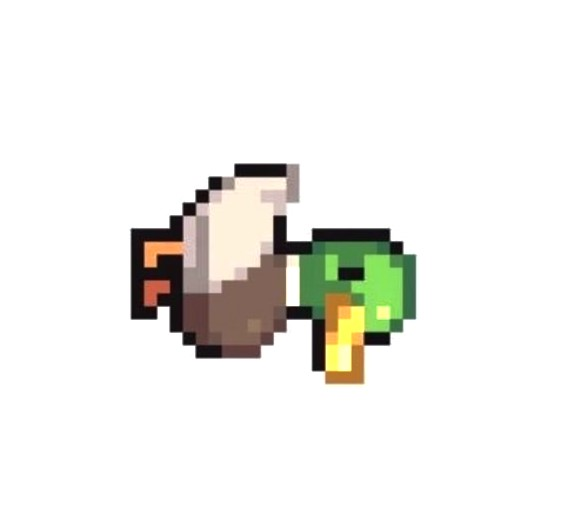
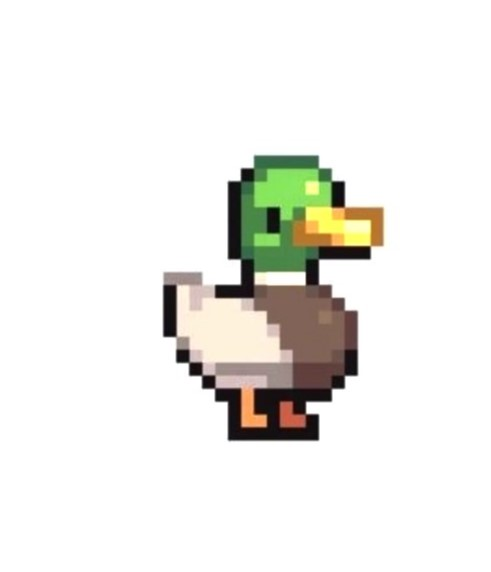
update 3/4

Changed region(s): [[0.2138, 0.2707, 0.7943, 0.782]]

diff --git a/game.cpp b/game.cpp
@@ -307,7 +307,7 @@ void game::renderBestScore()
 void game::renderMessage()
 {
 	LTexture image;
-	image.Load("anh_amthanh/message.png", 1);
+	image.Load("anh_amthanh/duck-ready.png", 1);
 	 image.Render((SCREEN_WIDTH - image.getWidth()) / 2, 180);
 	image.free();
 }
@@ -368,15 +368,15 @@ void game::renderPauseTab()
 void game::lightTheme()
 {
 	LTexture image;
-	image.Load("anh_amthanh/shiba.png", 0.8);
-	image.Render(325, 315);
+	image.Load("anh_amthanh/duck-01.png", 0.8);
+	image.Render(330, 310);
 	image.free();
 }
 
 void game::darkTheme()
 {
 	LTexture image;
-	image.Load("anh_amthanh/shiba-dark.png", 0.8);
+	image.Load("anh_amthanh/Duck-02.png", 0.8);
 	image.Render(325, 315);
 	image.free();
 }
@@ -415,17 +415,17 @@ void game::renderMedal()
 
 	if (score > 20 && score <= 50)
 	{
-		image.Load("anh_amthanh/silver.png", scaleNumberS);
+		image.Load("anh_amthanh/silver-medal-demo.png", scaleNumberS);
 	}
 	else if (score > 50)
 	{
-		image.Load("anh_amthanh/gold.png", scaleNumberS);
+		image.Load("anh_amthanh/gold-medal-demo.png", scaleNumberS);
 	}
 	else
 	{
-		image.Load("anh_amthanh/honor.png", scaleNumberS);
+		image.Load("anh_amthanh/bronze-medal-demo.png", scaleNumberS);
 	}
-	image.Render(SCREEN_WIDTH/2 - 100, 275);
+	image.Render((SCREEN_WIDTH/2 - 100)-14, 265);
 
 	image.free();
 }

diff --git a/character.cpp b/character.cpp
@@ -4,8 +4,8 @@
 
 bool doge::init(bool isDark)
 {
-    string shiba_path = "anh_amthanh/shiba.png";
-    if (isDark) shiba_path = "anh_amthanh/shiba-dark.png";
+    string shiba_path = "anh_amthanh/duck-01.png";
+    if (isDark) shiba_path = "anh_amthanh/Duck-02.png";
     if (saved_path == shiba_path)
     {
         posDoge.getPos(150, SCREEN_HEIGHT / 2 - 10);

diff --git a/music.cpp b/music.cpp
@@ -6,7 +6,7 @@
 bool sound::init()
 {
     string breath_path = "anh_amthanh/sfx_breath.wav";
-    string hit_path = "anh_amthanh/game-over-2-sound-effect-230463.wav";
+    string hit_path = "anh_amthanh/duck-sound.wav";
     string sound_path = "anh_amthanh/sound.png";
 
     bool success = true;

diff --git a/character.h b/character.h
@@ -8,6 +8,7 @@
 
 using namespace std;
 
+
 class doge:LTexture
 {
 public:
